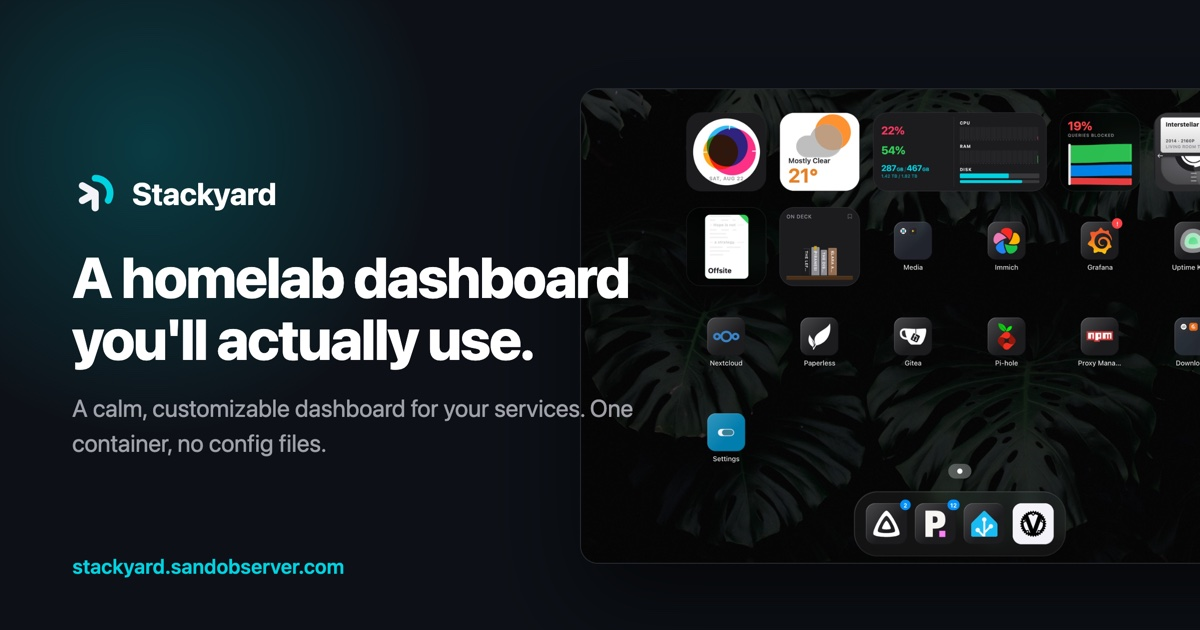
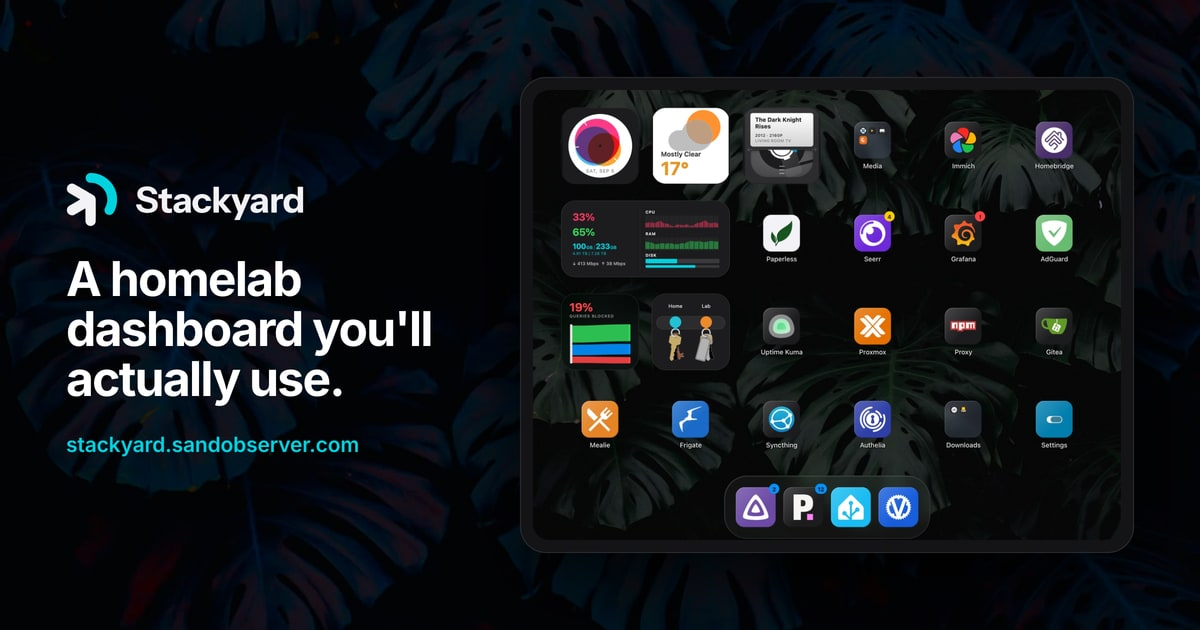
Docs: refresh the dashboard screenshot and social card (#38)
Replace the Introduction screenshot with a capture of the current dashboard,
under a content-hashed filename so the immutable cache serves the new file.

Rebuild the social card around the same capture, using the landing page's
bezel, wordmark lock-up and accent colour.

diff --git a/src/content/docs/docs/index.md b/src/content/docs/docs/index.md
@@ -7,7 +7,7 @@ Stackyard is a self-hosted dashboard for the services on your network: a launche
 
 Most dashboards are a wall of numbers and charts. Stackyard is built to be glanced at a hundred times a day without feeling cluttered.
 
-<img src="/img/dashboard.jpg" width="1800" height="1125" alt="The Stackyard dashboard, showing widgets, app tiles, a folder and the dock." />
+<img src="/img/dashboard-c33a4d22.jpg" width="1800" height="1125" alt="The Stackyard dashboard, showing widgets, app tiles, a folder and the dock." />
 
 That is the whole interface. Widgets across the top, apps and folders below, a dock at the bottom, and everything on it added through the web UI.
 
